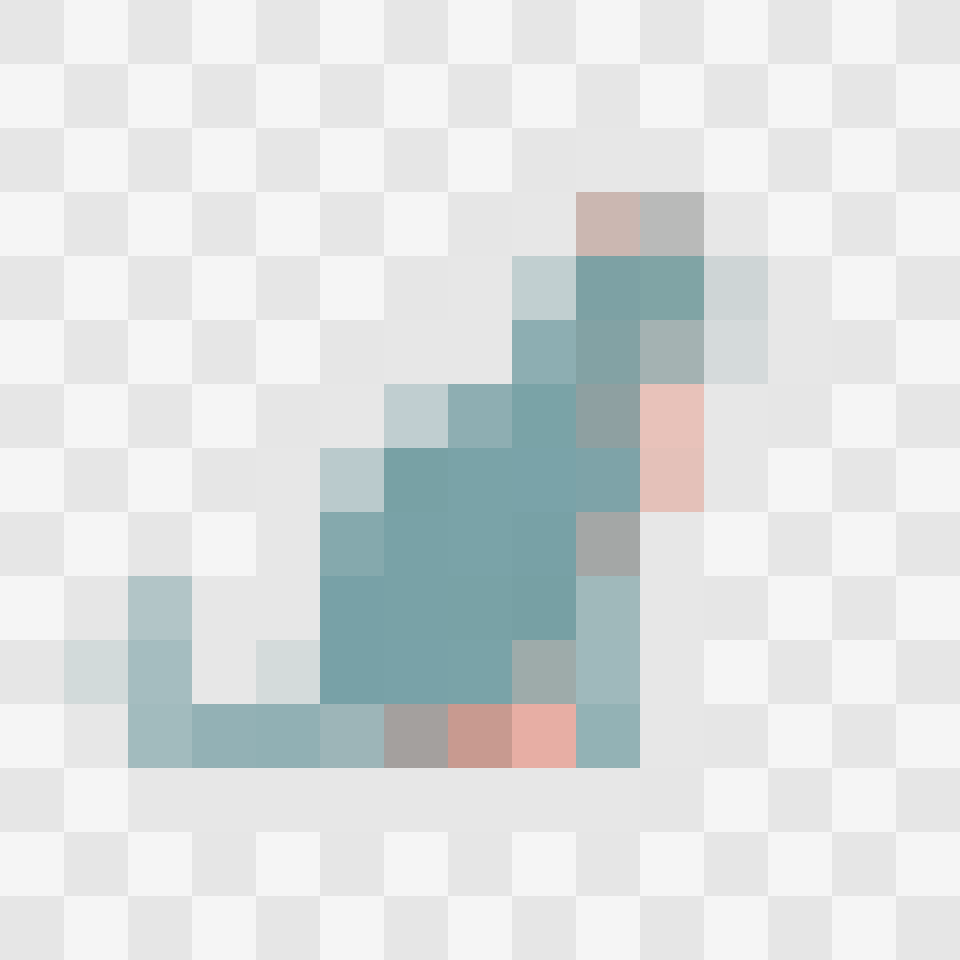
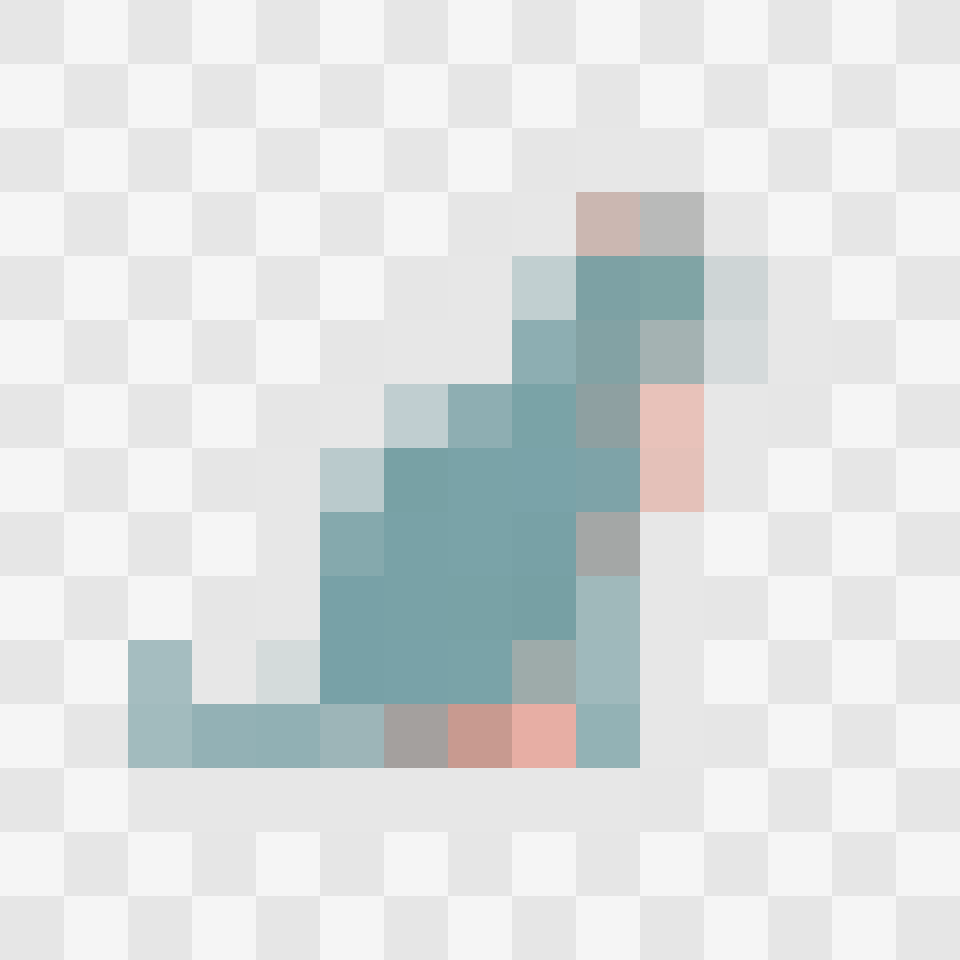
Stop closing interior holes in nonogram morphology.
Despeckle only so silhouette gaps stay open; rebuild the five-puzzle batch under the same unique line-logic bar.

Changed region(s): [[0.0625, 0.5938, 0.2188, 0.75]]

diff --git a/pocs/image-nonogram-pipeline/pipeline.py b/pocs/image-nonogram-pipeline/pipeline.py
@@ -85,23 +85,22 @@ def threshold_grid(intensities: np.ndarray, t: float) -> np.ndarray:
 
 
 def morph_clean(grid: np.ndarray) -> np.ndarray:
+    """Despeckle only: remove isolated fills. Do not close holes (keeps interior empties)."""
     g = grid.copy()
     h, w = g.shape
     for _ in range(2):
         nxt = g.copy()
         for y in range(h):
             for x in range(w):
+                if g[y, x] != FILL:
+                    continue
                 neigh = []
                 for dy, dx in ((-1, 0), (1, 0), (0, -1), (0, 1)):
                     ny, nx = y + dy, x + dx
                     if 0 <= ny < h and 0 <= nx < w:
                         neigh.append(int(g[ny, nx]))
-                if not neigh:
-                    continue
-                if sum(neigh) <= 1 and g[y, x] == FILL:
+                if neigh and sum(neigh) <= 1:
                     nxt[y, x] = EMPTY
-                if sum(neigh) >= len(neigh) - 1 and g[y, x] == EMPTY and sum(neigh) >= 3:
-                    nxt[y, x] = FILL
         g = nxt
     return g
 
